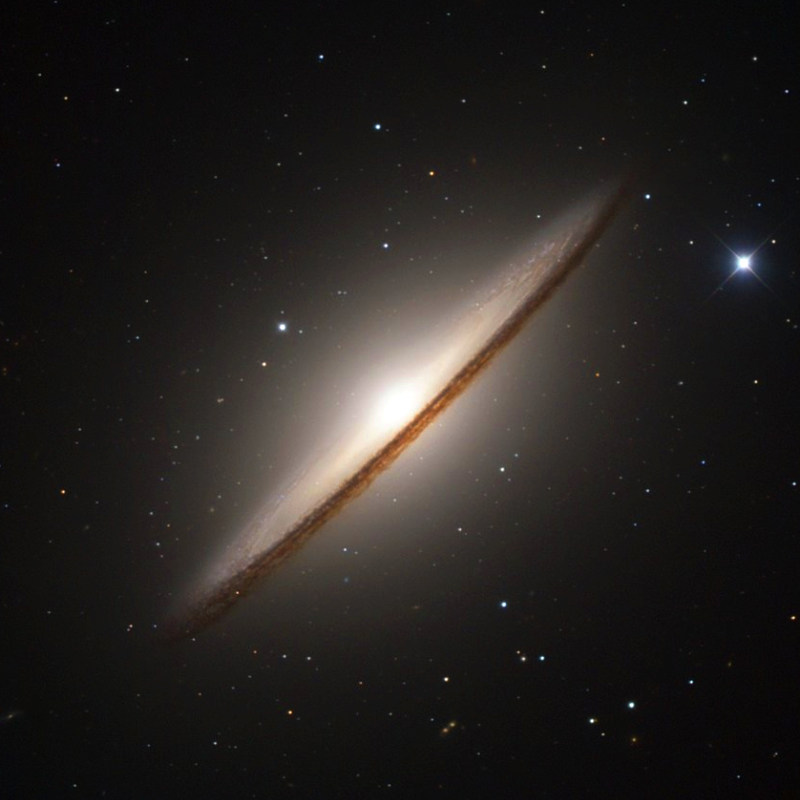
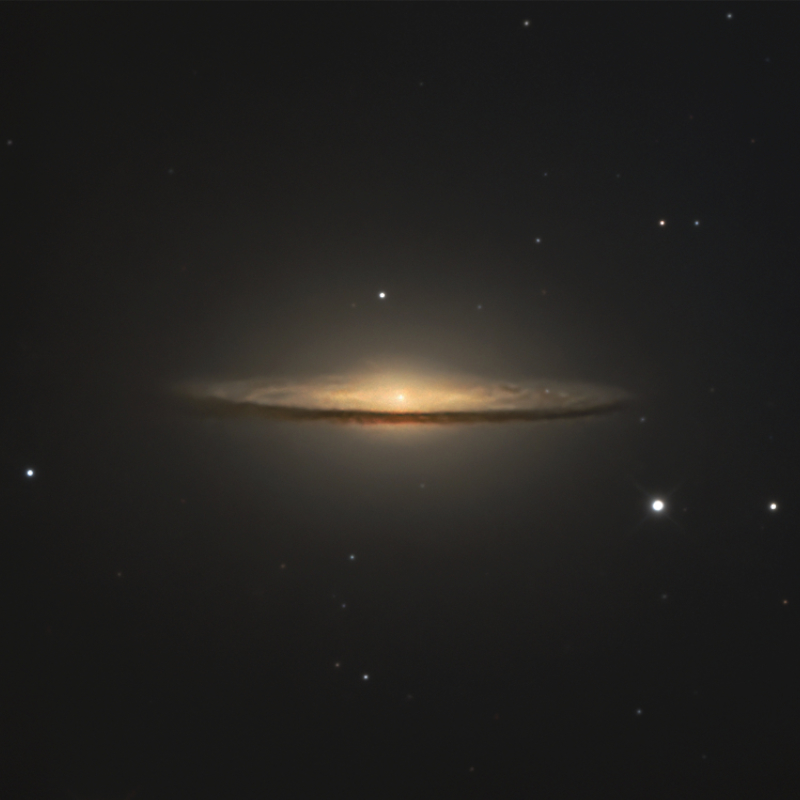
feat: expand First Light card catalog

diff --git a/src/app/features/cards/pages/catalog-page/catalog-page.component.spec.ts b/src/app/features/cards/pages/catalog-page/catalog-page.component.spec.ts
@@ -15,8 +15,27 @@ describe('CatalogPageComponent', () => {
     const fixture = TestBed.createComponent(CatalogPageComponent);
     fixture.detectChanges();
 
-    expect(fixture.nativeElement.querySelectorAll('.catalog-card')).toHaveSize(44);
+    expect(fixture.nativeElement.querySelectorAll('.catalog-card')).toHaveSize(52);
     expect(fixture.nativeElement.querySelectorAll('.catalog-card--special')).toHaveSize(4);
+  });
+
+  it('lists First Light cards before Space Agencies cards', () => {
+    const fixture = TestBed.createComponent(CatalogPageComponent);
+    fixture.detectChanges();
+
+    const collections = Array.from(
+      fixture.nativeElement.querySelectorAll('.catalog-card__credit span:first-child') as NodeListOf<HTMLElement>,
+      (element) => element.textContent?.trim() ?? '',
+    );
+    const firstAgencyIndex = collections.indexOf('Space Agencies Collection');
+
+    expect(firstAgencyIndex).toBeGreaterThan(0);
+    expect(collections.slice(0, firstAgencyIndex)).toEqual(
+      collections.slice(0, firstAgencyIndex).map(() => 'First Light Collection'),
+    );
+    expect(collections.slice(firstAgencyIndex)).toEqual(
+      collections.slice(firstAgencyIndex).map(() => 'Space Agencies Collection'),
+    );
   });
 
   it('opens and closes the card details modal', () => {
@@ -53,10 +72,10 @@ describe('CatalogPageComponent', () => {
     const fixture = TestBed.createComponent(CatalogPageComponent);
     fixture.detectChanges();
 
-    expect(fixture.nativeElement.querySelector('.discovery-progress strong').textContent).toContain('1 / 40');
+    expect(fixture.nativeElement.querySelector('.discovery-progress strong').textContent).toContain('1 / 48');
     (fixture.nativeElement.querySelector('.discovery-progress button') as HTMLButtonElement).click();
     fixture.detectChanges();
-    expect(fixture.nativeElement.querySelector('.discovery-progress strong').textContent).toContain('0 / 40');
+    expect(fixture.nativeElement.querySelector('.discovery-progress strong').textContent).toContain('0 / 48');
   });
 
   it('opens the special card details modal', () => {

diff --git a/src/app/features/cards/pages/catalog-page/catalog-page.component.ts b/src/app/features/cards/pages/catalog-page/catalog-page.component.ts
@@ -49,10 +49,12 @@ export class CatalogPageComponent {
   protected readonly selectedSpecialCard = signal<SpecialCatalogEntry | null>(null);
   protected readonly isExporting = signal(false);
   protected readonly shareError = signal(false);
-  protected readonly cards: readonly CatalogEntry[] = cardsData.map((card) => {
-    const image = imageCredits.find((credit) => credit.cardId === card.id);
-    return { ...card, image: image ?? null };
-  });
+  protected readonly cards: readonly CatalogEntry[] = cardsData
+    .map((card) => {
+      const image = imageCredits.find((credit) => credit.cardId === card.id);
+      return { ...card, image: image ?? null };
+    })
+    .sort((left, right) => this.collectionOrder(left) - this.collectionOrder(right));
   protected readonly specialCards: readonly SpecialCatalogEntry[] = [
     { id: 'clouds', effectKey: 'cancel_round', asset: '/assets/cards/clouds.jpg' },
     {
@@ -139,6 +141,12 @@ export class CatalogPageComponent {
         : null,
       attributes,
     };
+  }
+
+  private collectionOrder(card: CatalogEntry): number {
+    if (card.image?.collectionName === 'First Light Collection') return 0;
+    if (card.image?.collectionName === 'Space Agencies Collection') return 1;
+    return 2;
   }
 
   protected asSpecialGameCard(card: SpecialCatalogEntry): GameCard {
